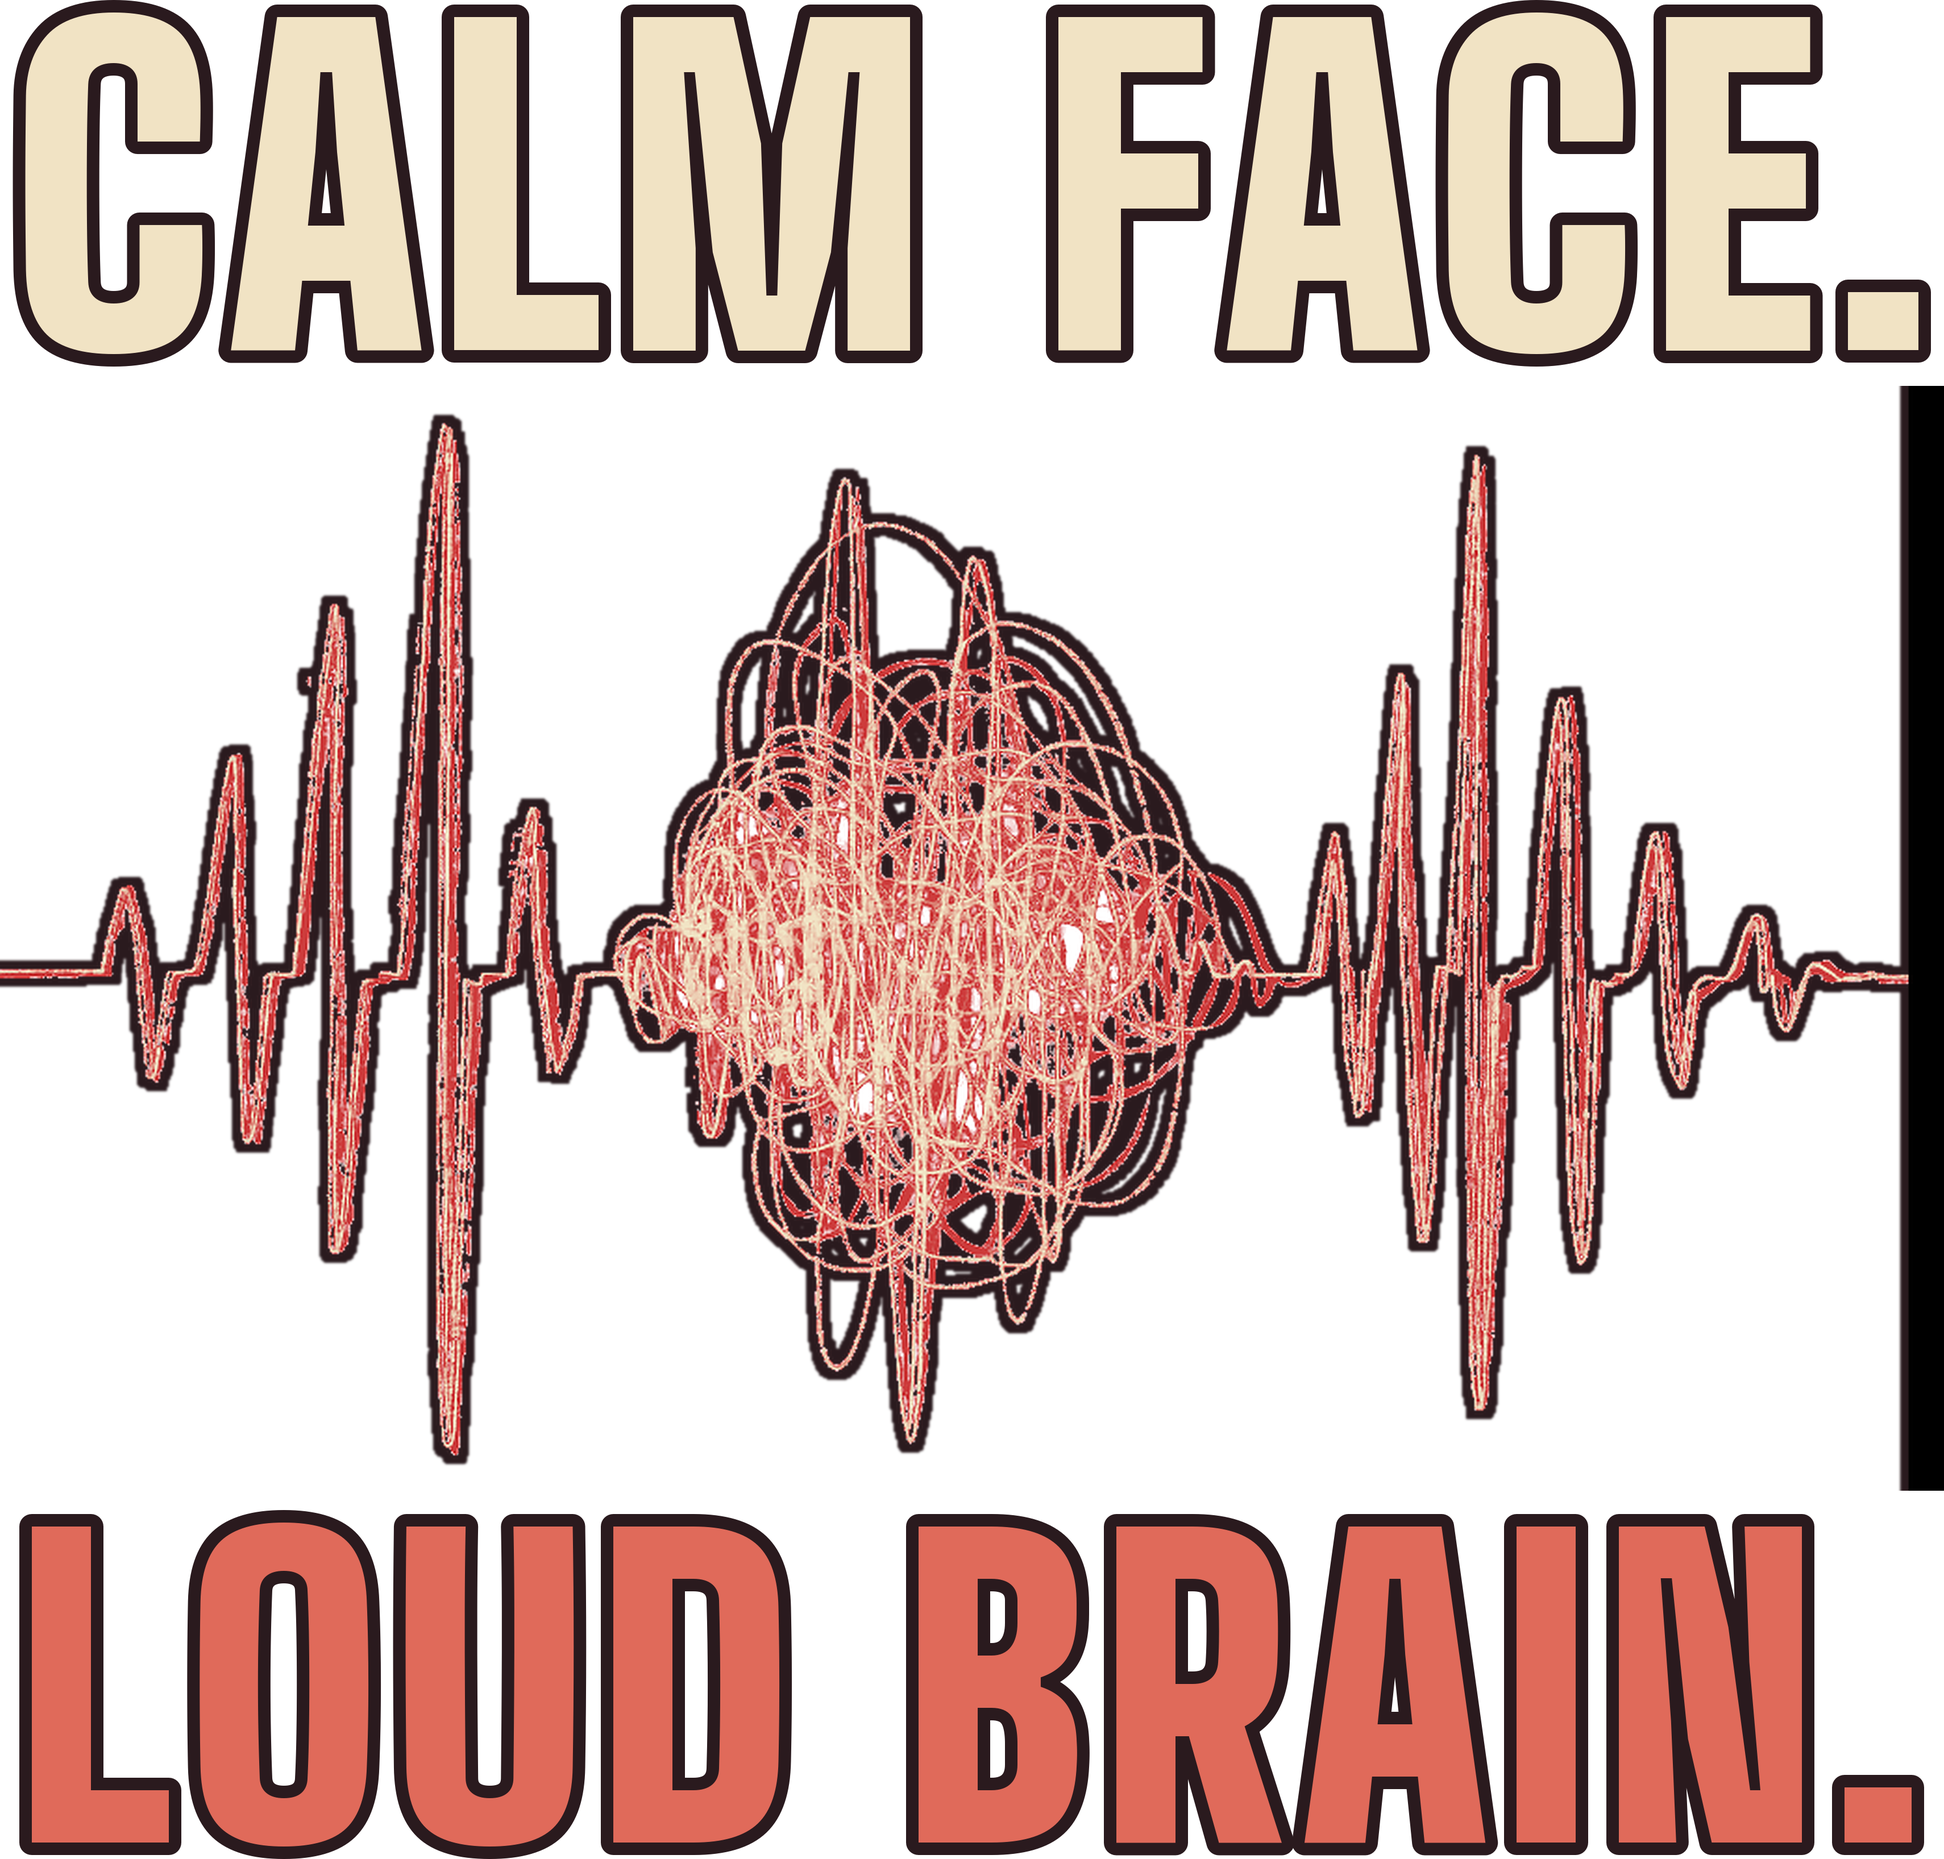
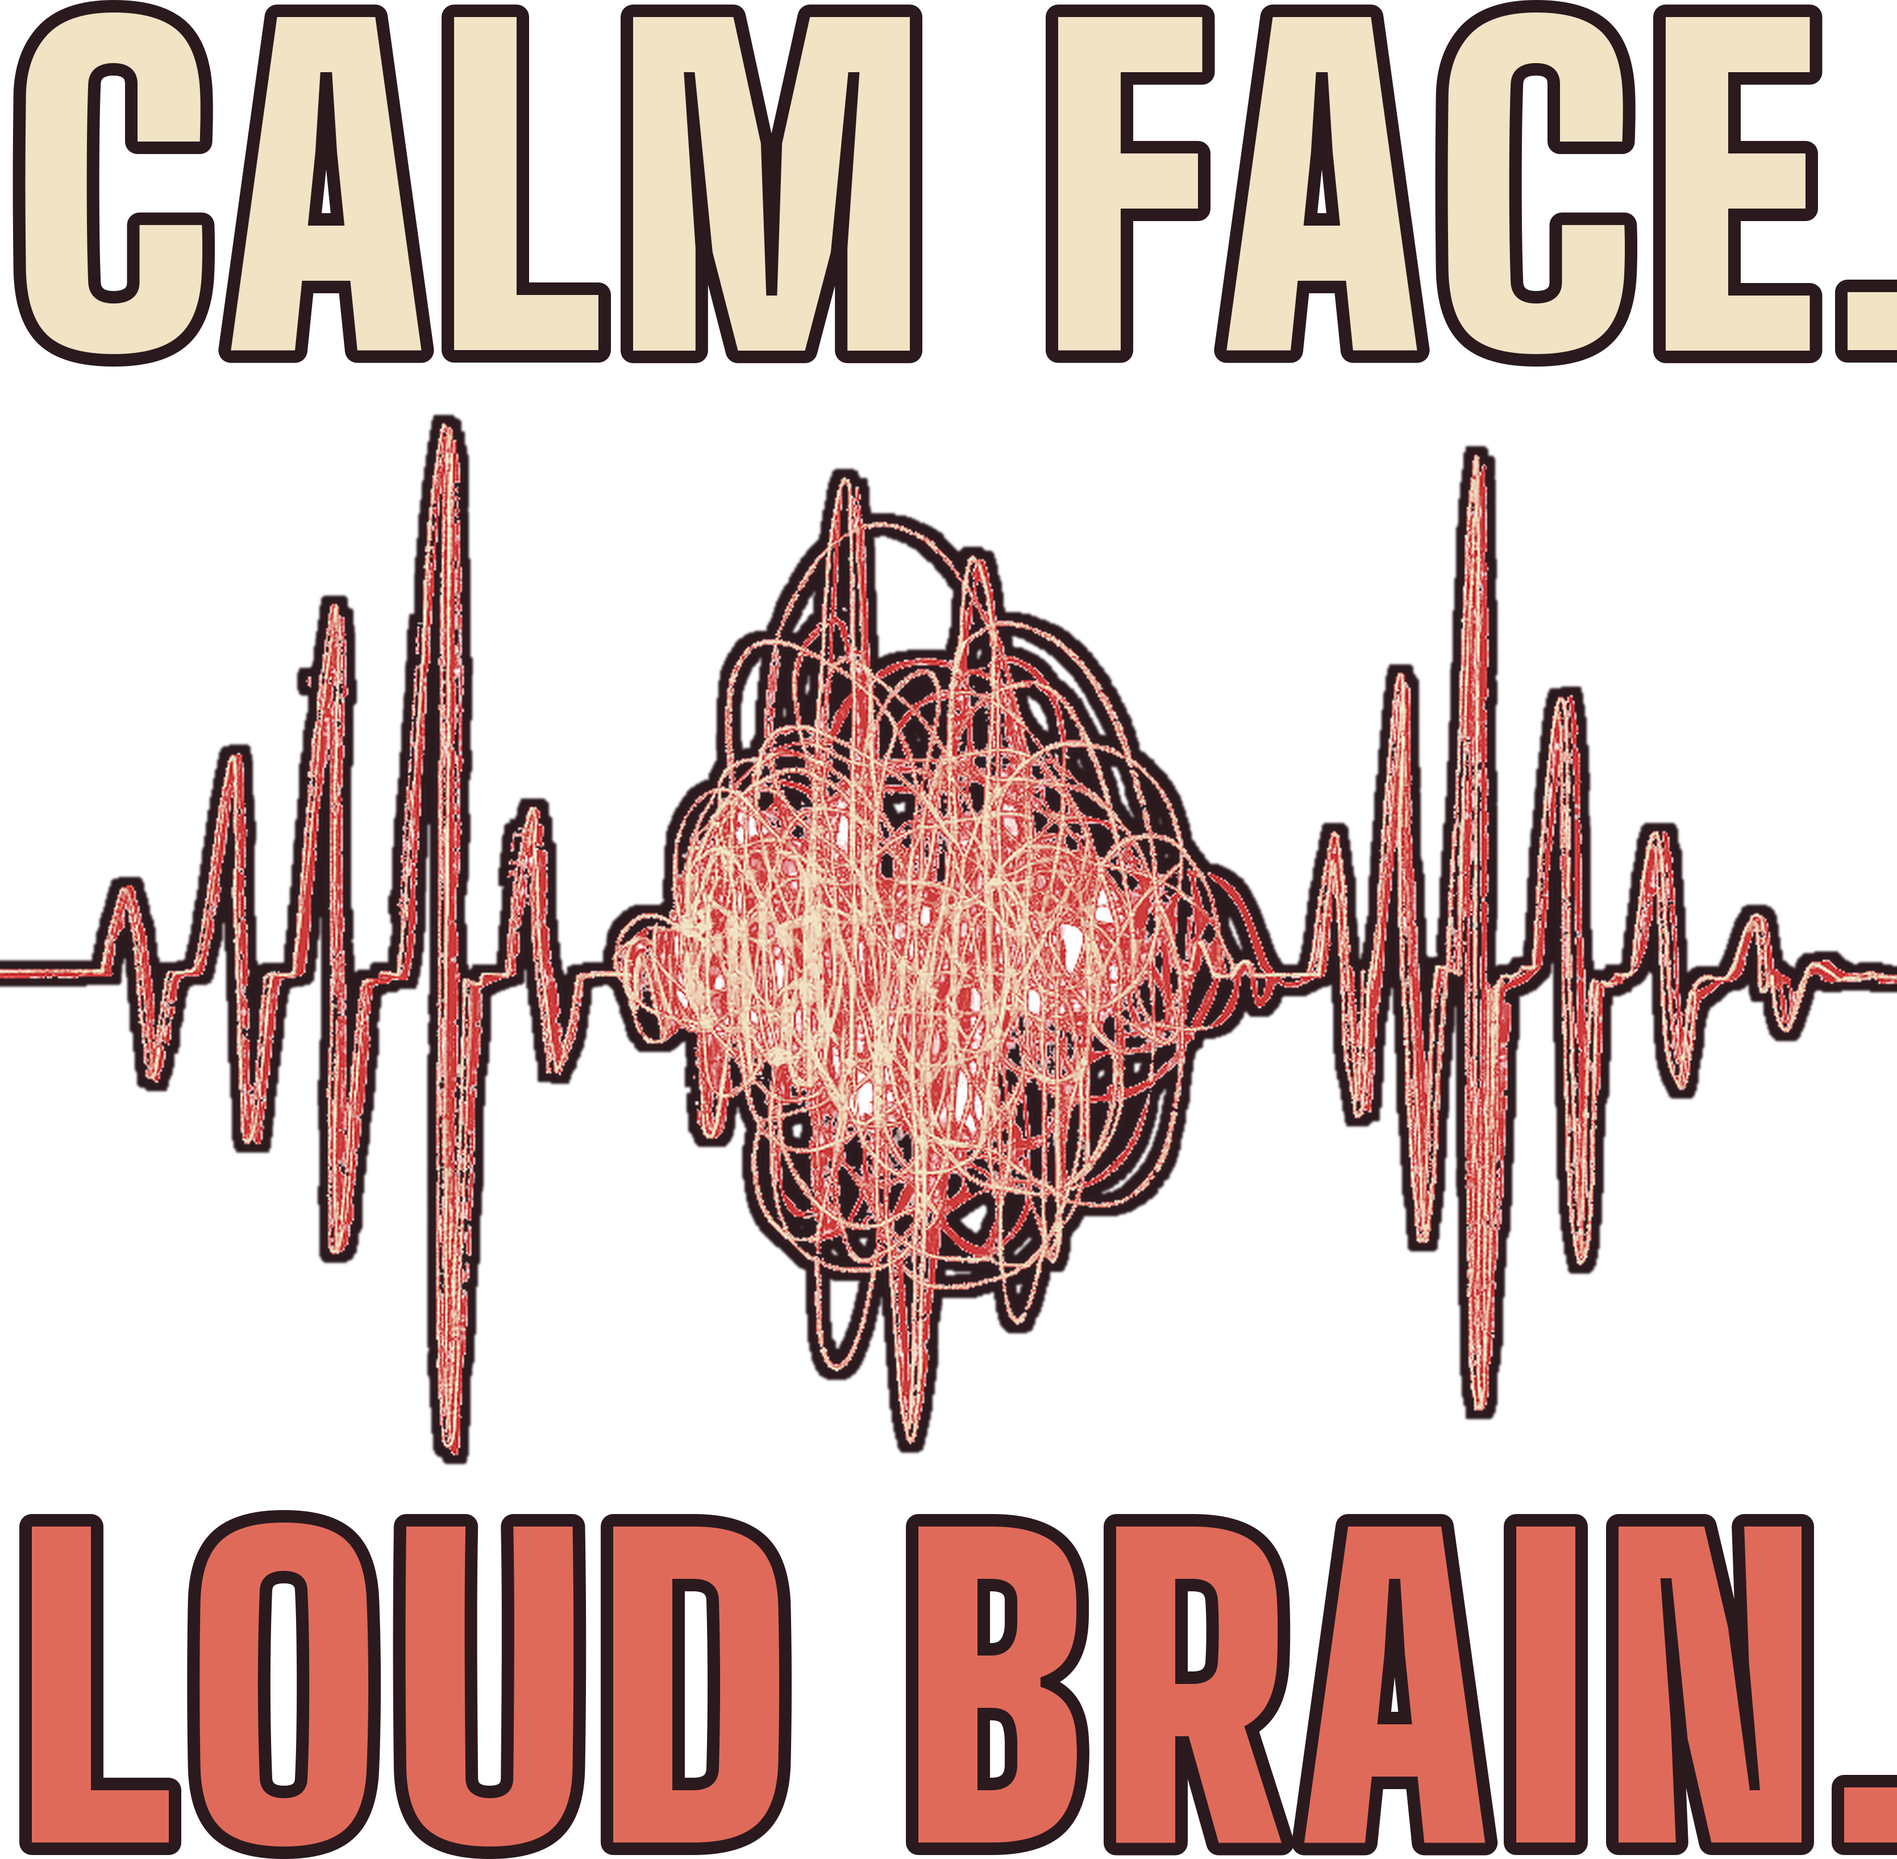
[C] review 493 calm face loud brain crewneck (bar removed)

diff --git a/docs/pipeline/493-nurse-crew-calm-face-loud-brain.md b/docs/pipeline/493-nurse-crew-calm-face-loud-brain.md
@@ -1,4 +1,4 @@
-status: BUILDING [C] 2026-10-17 22:54
+status: REVIEW
 lane: C
 type: new
 id: 493
@@ -33,3 +33,4 @@ kd: 52
 - 2026-10-17 22:26 UTC director: REDO.
   1. R5.3.8 (prints clean): there's a solid black vertical bar down the right edge of the art, just right of the heartbeat line. It prints as a black stripe on Sand (clearly visible on the Sand mockup). Crop or erase it in print-prep, re-upload the file, re-link all variants, regenerate the mockups and check the cover's print (redo it only if the bar shows there).
   2. (Withdrawn by the director: "Original art, made for Graphic Tees Co." is the SOP line for ai-art and stays.)
+- 2026-10-17 22:57 UTC builder [C]: REDO done: removed the black vertical bar (x>=3338 erased, file cropped to 3338x3271), Printful file 1088550199, all 12 variants re-linked FW 1650 TOP 75 (12/12), new Sand+Navy front and Sand back mockups attached; Sand mockup checked, bar gone. Cover not redone (bar does not show on it). No fal spend.

diff --git a/docs/intake-log.md b/docs/intake-log.md
@@ -807,3 +807,4 @@ for the record, but treat this one as current for these 3 products.
 2026-10-17 15:03 UTC — [A] ART-NEXT #445 DRAFT built (no art/sync/images; fal empty): mens-gym-squire-spot-me-hoodie.
 2026-10-17 15:03 UTC — [A] ART-NEXT #446 DRAFT built (no art/sync/images; fal empty): womens-chihuahua-cold-since-birth-zip-hoodie.
 2026-10-17 15:03 UTC — [A] Run summary (fal empty, temp-cover mode): ART-NEXT drafts built for #401 #402 #403 #444 #445 #446. No buildable twins: every READY twin waits on a source tee that is still ART-NEXT (#273 #275 #283 #318 #386 #388 #390) and the REDO twins need the R6.2 hand re-letter / new art (fal). Price chore not attempted (audit crashes in sandbox per lane B). Lock released.
+2026-10-17 22:57 UTC — [C] REVIEW #493 (REDO: black bar erased, re-linked, new mockups).
